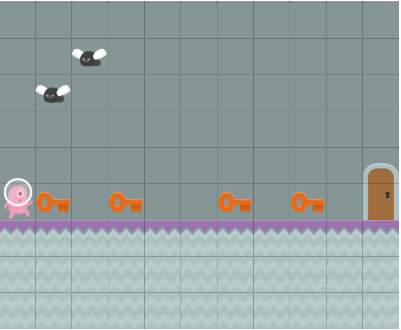
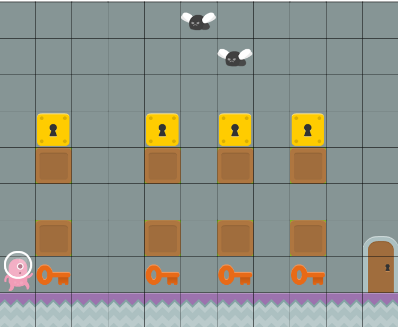
Added challenge 4-5

diff --git a/exercices/2019/e-4-5/task.js b/exercices/2019/e-4-5/task.js
@@ -63,14 +63,28 @@ function initTask(subTask) {
         img: "../images/objects/fond_gris/mouche.png",
         side: cellSide,
         isObstacle: false
+      },
+      caise: {
+        num: 7,
+        img: "../images/objects/fond_vert/caise.png",
+        side: cellSide,
+        category: "platform",
+        isObstacle: true
+      },
+      serrure: {
+        num: 10,
+        img: "../images/objects/fond_gris/serrure_jaune.png",
+        side: cellSide,
+        category: "serrure",
+        isObstacle: false
       }
     },
 
-    maxInstructions: 7,
+    maxInstructions: 10,
     includeBlocks: {
       groupByCategory: false,
       generatedBlocks: {
-        robot: ["forward", "pickTransportable", "hasAKey"]
+        robot: ["forward", "pickTransportable", "hasAKey", "jump", "openLocker"]
       },
       standardBlocks: {
         includeAll: false,
@@ -90,20 +104,23 @@ function initTask(subTask) {
         var onPorte =
           context.getItems(robot.row, robot.col, { category: "porte" })
             .length == 1;
+
         if (!onPorte) {
           context.success = false;
           throw "Bozok is not on the door";
         }
 
-        var hasCles =
-          context.nbTransportedItems === 5 &&
-          context.transportedItem.category === "key";
-        if (!hasCles) {
+        var allLocksOpened =
+          context.getItems(undefined, undefined, { category: "serrure" })
+            .length == 0;
+
+        if (!allLocksOpened) {
           context.success = false;
-          throw "Bozok has not picked up all keys";
+          throw "Goumo has NOT opened all the locks";
         }
+
         context.success = true;
-        throw "Congratulation !";
+        throw "Well done !";
       }
     },
     computeGrade: function(context, message) {
@@ -122,17 +139,17 @@ function initTask(subTask) {
     easy: [
       {
         tiles: [
+          [1, 1, 1, 1, 1, 9, 1, 1, 1, 1, 1],
+          [1, 1, 1, 1, 1, 1, 9, 1, 1, 1, 1],
           [1, 1, 1, 1, 1, 1, 1, 1, 1, 1, 1],
-          [1, 1, 9, 1, 1, 1, 1, 1, 1, 1, 1],
-          [1, 9, 1, 1, 1, 1, 1, 1, 1, 1, 1],
+          [1, 10, 1, 1, 10, 1, 10, 1, 10, 1, 1],
+          [1, 7, 1, 1, 7, 1, 7, 1, 7, 1, 1],
           [1, 1, 1, 1, 1, 1, 1, 1, 1, 1, 1],
-          [1, 1, 1, 1, 1, 1, 1, 1, 1, 1, 5],
-          [1, 2, 1, 2, 1, 1, 2, 2, 2, 1, 4],
-          [8, 8, 8, 8, 8, 8, 8, 8, 8, 8, 8],
-          [7, 7, 7, 7, 7, 7, 7, 7, 7, 7, 7],
-          [7, 7, 7, 7, 7, 7, 7, 7, 7, 7, 7]
+          [1, 7, 1, 1, 7, 1, 7, 1, 7, 1, 5],
+          [1, 2, 1, 1, 2, 1, 2, 1, 2, 1, 4],
+          [8, 8, 8, 8, 8, 8, 8, 8, 8, 8, 8]
         ],
-        initItems: [{ row: 5, col: 0, dir: 0, type: "robot" }]
+        initItems: [{ row: 7, col: 0, dir: 0, type: "robot" }]
       }
     ]
   };

diff --git a/exercices/2019/e-4-5/index.html b/exercices/2019/e-4-5/index.html
@@ -53,26 +53,20 @@
   </head>
   <body onresize="task.displayedSubTask.updateScale()">
     <div id="task">
-      <h1>The IF bloc</h1>
+      <h1>The lockers anywhere !</h1>
       <img src="icon.png" style="display:none" />
 
       <div id="tabsContainer"></div>
       <div id="taskContent" style="text-align:left;position:relative">
         <div id="taskIntro" style="width: 50%">
-          <p>Balouk must pick up all the keys and go to the door</p>
           <p>
-            BUT: the number of blocks is limited, and the keys are put pretty
-            much everywhere !!
+            When there is a key on the way, Balouk must pick it up and unlock
+            the locker located just above
           </p>
-        </div>
-
-        <div id="taskIntro" style="width: 50%">
           <p>
-            Fortunately, here is a new block: with the "IF-DO" block you can
-            test the presence of a key on the box and take the key only if the
-            box contains one
+            Warning : there is a limited number of blocs, and keys can be
+            anywhere !
           </p>
-          <img src="ifBloc.png" />
         </div>
 
         <div id="gridContainer"></div>

diff --git a/_common/modules/pemFioi/blocklyRobot_lib-0.9.js b/_common/modules/pemFioi/blocklyRobot_lib-0.9.js
@@ -365,9 +365,9 @@ var getContext = function(display, infos, curLevel) {
       context.lost = true;
       throw "The robot throws itself into the void!";
     }
-    if (row - coords.row > 2) {
+    if (row - coords.row > 10) {
       context.lost = true;
-      throw "The robot will fall from above and crash!";
+      throw "WThe robot will fall from above and crash!";
     }
     coords.row = row;
     context.nbMoves++;
@@ -1000,7 +1000,7 @@ var getContext = function(display, infos, curLevel) {
 
     if (
       context.transportedItem == undefined ||
-      context.transportedItem.category !== "cle"
+      context.transportedItem.category !== "key"
     ) {
       throw "The robot tries to open a lock, but does not have a key.";
     }

diff --git a/exercices/2019/e-3-1/task.js b/exercices/2019/e-3-1/task.js
@@ -71,7 +71,7 @@ function initTask(subTask) {
         num: 9,
         img: "../images/objects/fond_ciel/cle.png",
         side: cellSide,
-        category: "cle",
+        category: "key",
         isObstacle: false,
         isTransportable: true
       },
@@ -128,10 +128,10 @@ function initTask(subTask) {
 
         if (noSerrure) {
           context.success = true;
-          throw "Bravo, Goumo a ouvert toutes les serrure !";
+          throw "Well done, Goumo has opened all the locks!";
         } else {
           context.success = false;
-          throw "Goumo n'a pas ouvert toutes les serrure";
+          throw "Goumo has NOT opened all the locks";
         }
       }
     },

diff --git a/index-challenges2.html b/index-challenges2.html
@@ -71,6 +71,13 @@
           <p>1. The 4 stairs of diamonds</p>
         </a>
       </div>
+
+      <div class="box">
+        <a href="exercices\2019\e-4-5\index.html">
+          <img src="exercices\2019\e-4-5\icon.png" width="300" />
+          <p>1. The lockers anywhere !</p>
+        </a>
+      </div>
     </div>
   </body>
 </html>

diff --git a/exercices/2019/e-2-4/task.js b/exercices/2019/e-2-4/task.js
@@ -71,7 +71,7 @@ function initTask(subTask) {
         num: 9,
         img: "../images/objects/fond_ciel/cle.png",
         side: cellSide,
-        category: "cle",
+        category: "key",
         isObstacle: false,
         isTransportable: true
       },
